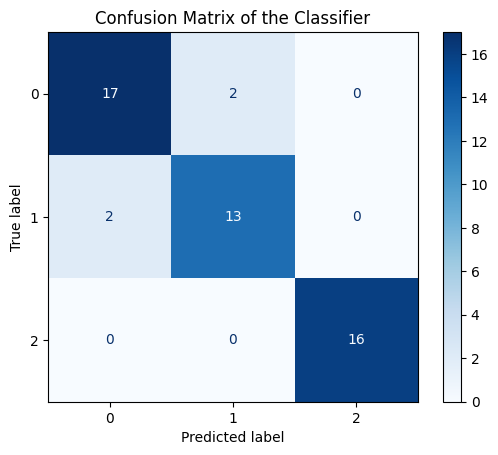
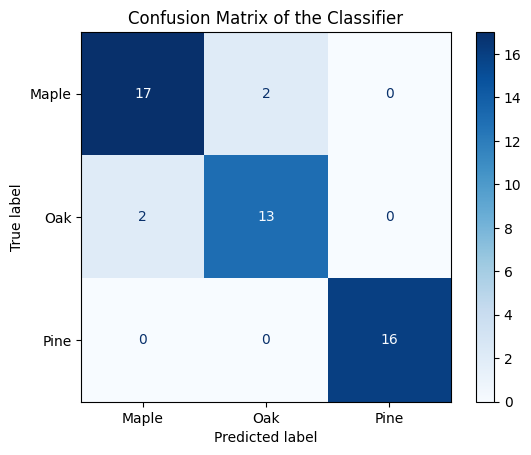
Added labeled confusion matrix

diff --git a/src/TreeClassifier.py b/src/TreeClassifier.py
@@ -62,8 +62,9 @@ def evaluate_model(model, X, y, skf):
     return y_pred
 
 def plot_confusion_matrix(y, y_pred, save_path="results/confusion_matrix.png"):
+    labels = ['Maple', 'Oak', 'Pine']
     cm = confusion_matrix(y, y_pred)
-    disp = ConfusionMatrixDisplay(cm)
+    disp = ConfusionMatrixDisplay(cm, display_labels=labels)
     disp.plot(cmap='Blues')
     plt.title("Confusion Matrix of the Classifier")
     plt.savefig(save_path, bbox_inches='tight')
